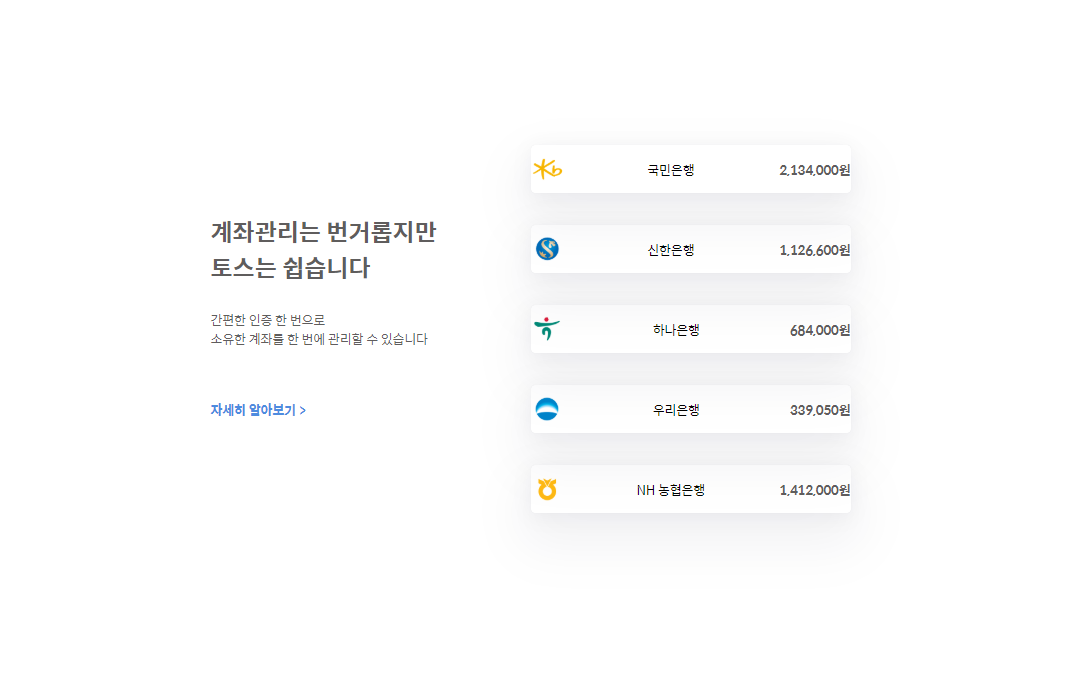
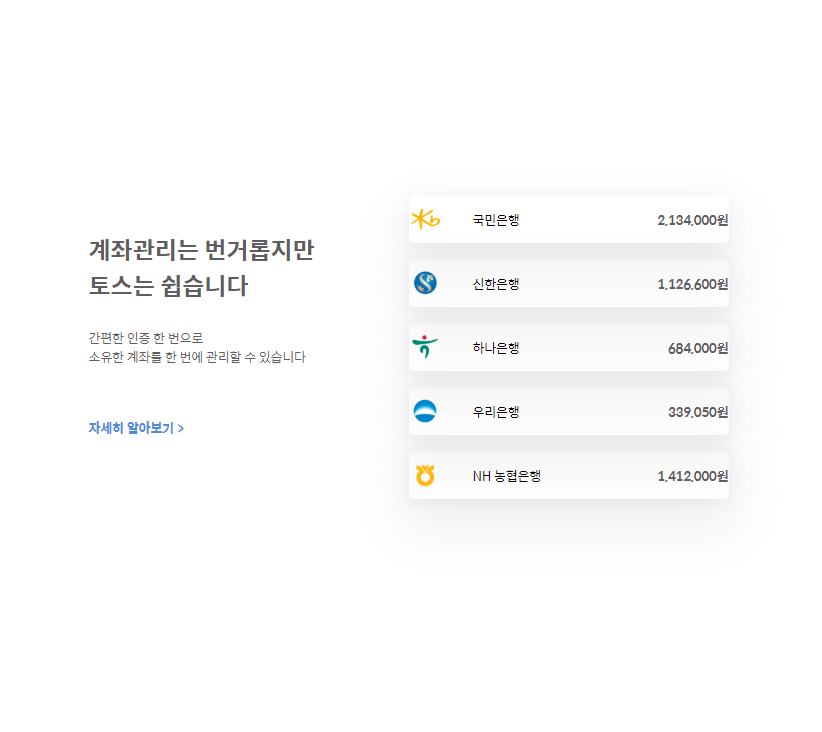
img_2

diff --git a/toss_flex.html b/toss_flex.html
@@ -21,28 +21,38 @@
         </div>
         <div class="container_right">
             <div class="right_item_1">
+                <div class = "bank">
                 <img class="logo_1" src="bank_logo/logo_1.png" alt="">
                 <div>국민은행</div>
+            </div>
                 <div class = "how_much">2,134,000원</div>
             </div>
             <div class="right_item_1">
+                <div class = "bank">
                 <img class="logo_1" src="bank_logo/logo_3.png" alt="">
                 <div>신한은행</div>
+            </div>
                 <div class = "how_much">1,126,600원</div>
             </div>
             <div class="right_item_1">
+                <div class = "bank">
                 <img class="logo_1" src="bank_logo/logo_4.png" alt="">
                 <div>하나은행</div>
+            </div>
                 <div class = "how_much">684,000원</div>
             </div>
             <div class="right_item_1">
+                <div class = "bank">
                 <img class="logo_1" src="bank_logo/logo_5.png" alt="">
                 <div>우리은행</div>
+                </div>
                 <div class = "how_much">339,050원</div>
             </div>
             <div class="right_item_1">
+                <div class = "bank">
                 <img class="logo_1" src="bank_logo/logo_2.png" alt="">
                 <div>NH 농협은행</div>
+                </div>
                 <div class = "how_much">1,412,000원</div>
             </div>
         </div>

diff --git a/toss_flex_css.css b/toss_flex_css.css
@@ -22,7 +22,7 @@ html, body{
 }
 .container_right{
     width: 500px;
-    height: 500px;
+    height: 400px;
     /*border: 3px solid palevioletred;*/
     border-radius: 5px;
     display:flex;
@@ -91,9 +91,16 @@ html, body{
 0 0 1px 0 rgba(0, 0, 33, 0.09) ;
 }
 .logo_1{
-    width: 40px
+    width: 40px;
+    padding-right: 40px;
 }
 .how_much{
     color:rgb(95, 93, 93);
     font-weight: 600;
+}
+.bank{
+    width: 200px;
+    display:flex;
+    justify-content : left;
+    align-items: center;
 }
